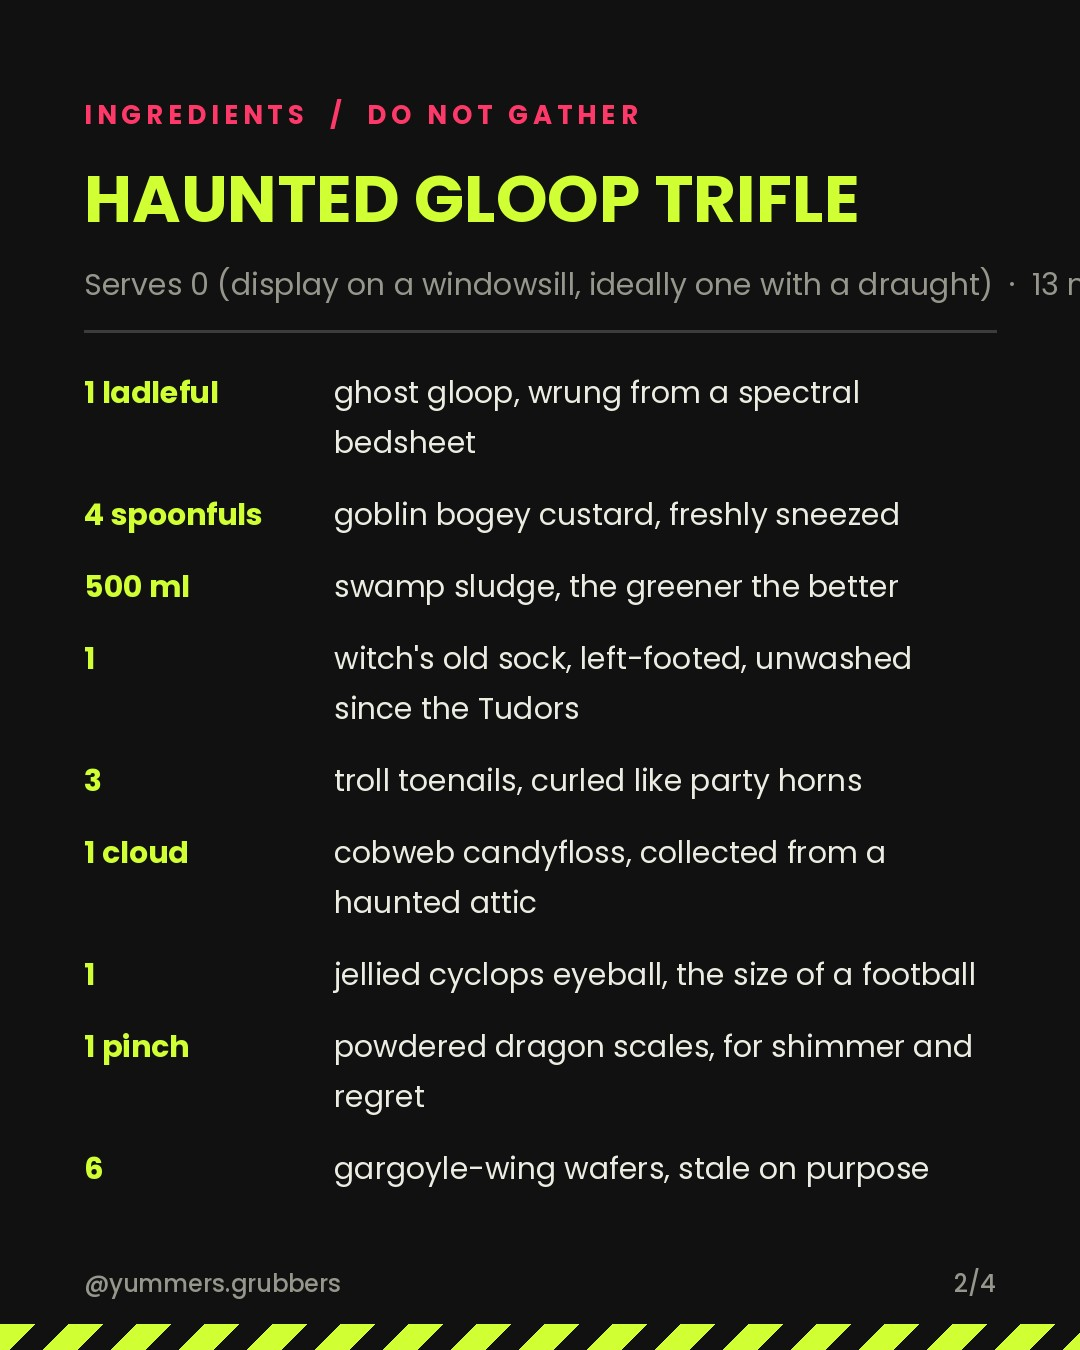
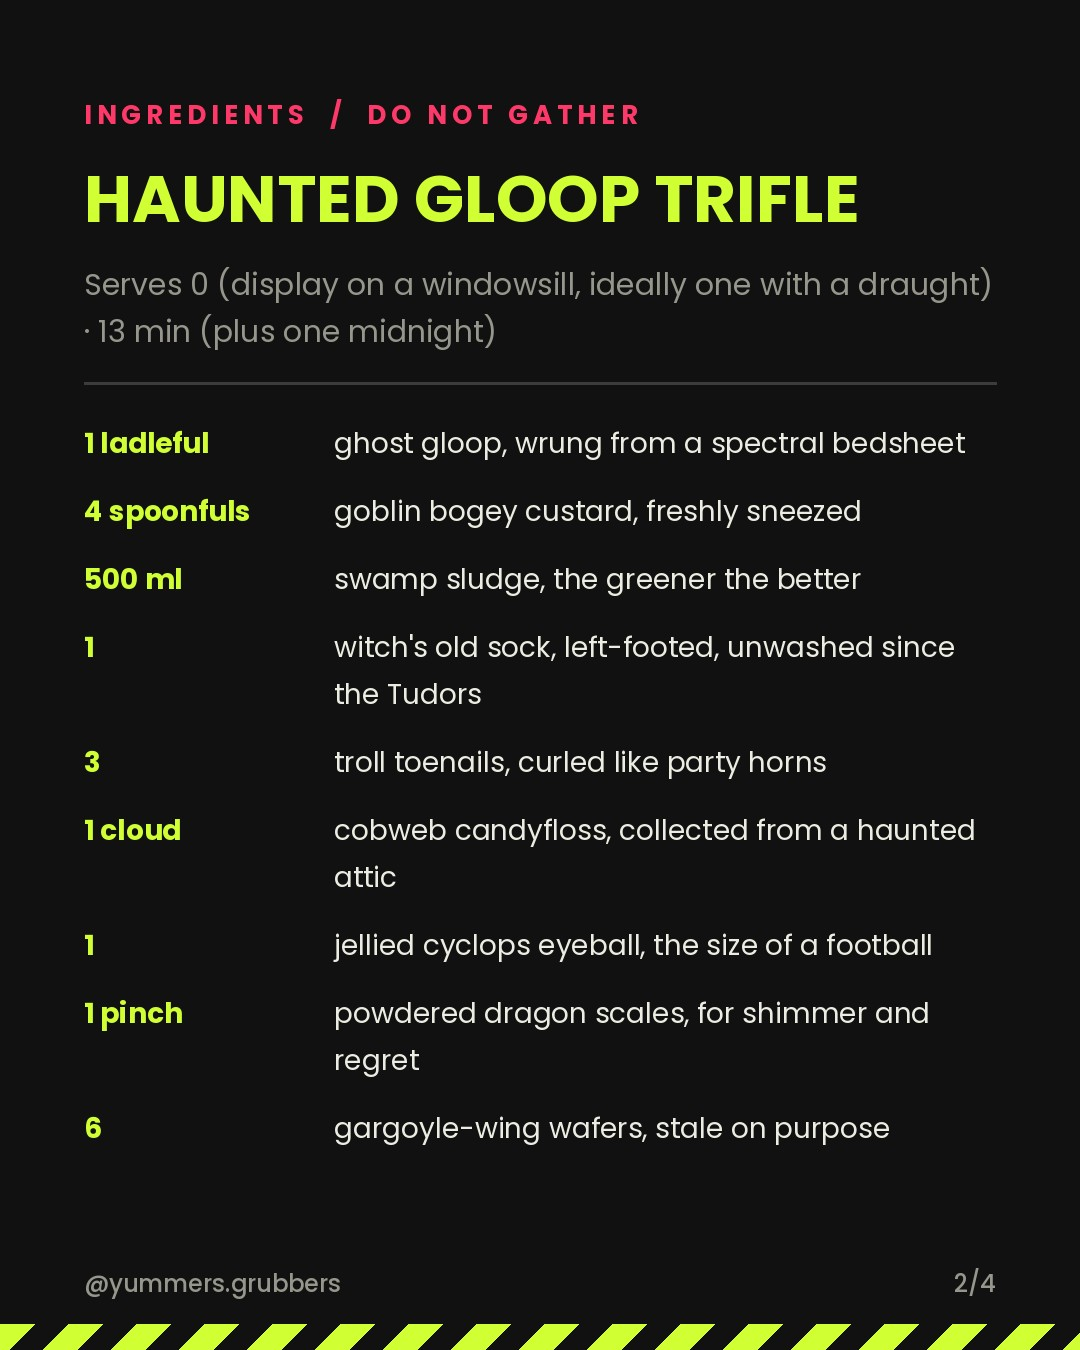
Wrap long serving lines on the ingredients slide; re-render today's slides
Claude-Session: https://claude.ai/code/session_015E94BLPgmEXG9K5Qhsoekk

diff --git a/grub/slides.py b/grub/slides.py
@@ -158,8 +158,11 @@ def _header(d, t, kicker: str, recipe: dict, kind: str, meta: bool = True) -> in
         y += line_h(tf, 1.08)
     if meta:
         y += 10
-        d.text((M, y), f"{recipe['servings']}  ·  {recipe['time']}", font=font("regular", 30), fill=t["muted"])
-        y += 50
+        mf = font("regular", 30)
+        for ln in wrap(f"{recipe['servings']}  ·  {recipe['time']}", mf, W - 2 * M)[:2]:
+            d.text((M, y), ln, font=mf, fill=t["muted"])
+            y += line_h(mf, 1.1)
+        y += 8
     y += 18
     d.line((M, y, W - M, y), fill=t["rule"], width=3)
     return y + 40
